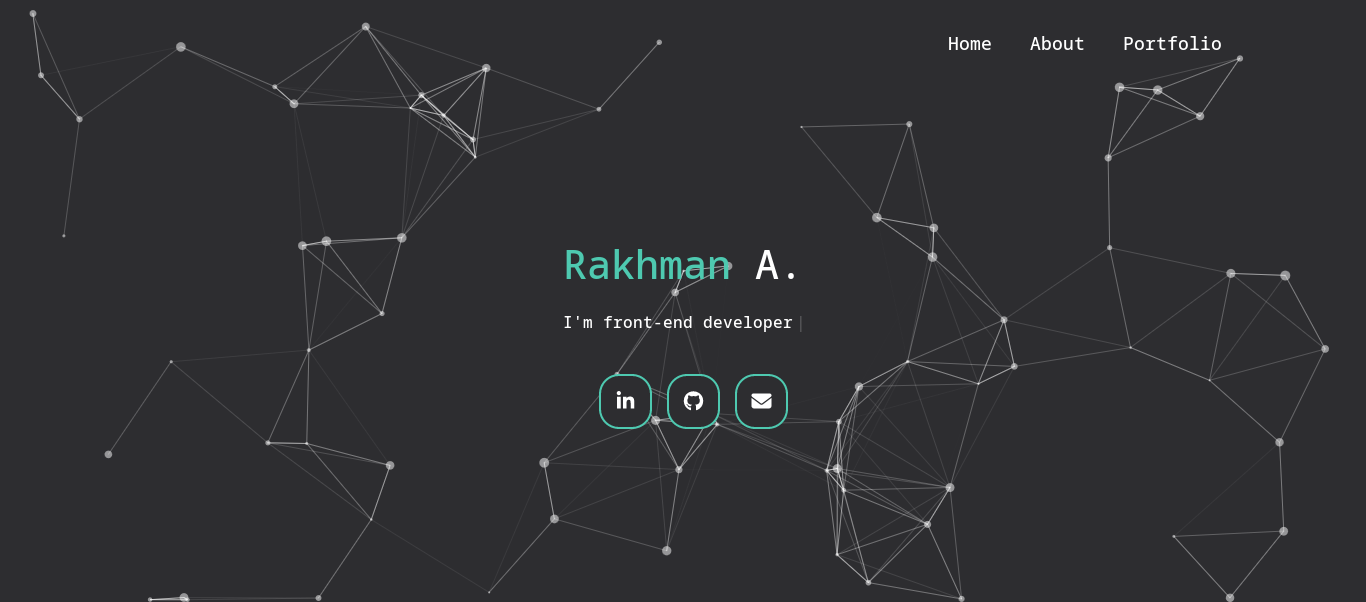
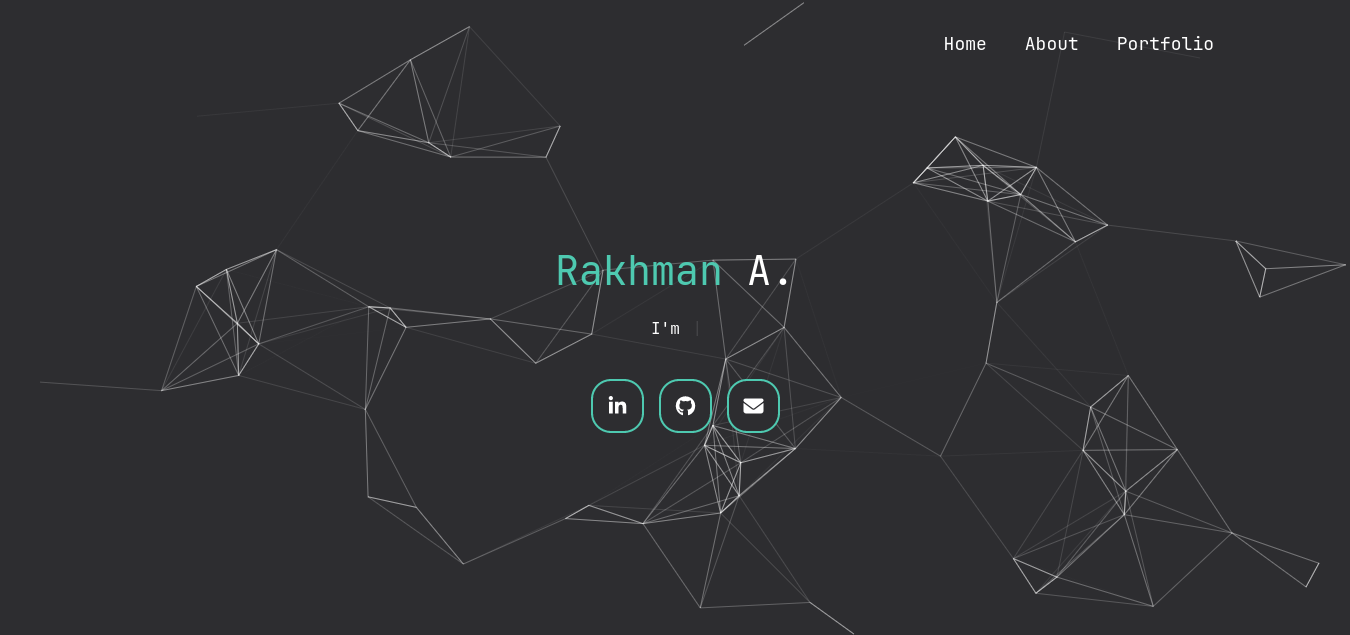
fix: tsparticles updated

diff --git a/src/layouts/Layout.tsx b/src/layouts/Layout.tsx
@@ -1,7 +1,7 @@
 import { ReactNode, useCallback } from "react";
-import { Particles } from "react-tsparticles";
-import { loadFull } from "tsparticles";
+import { Particles } from "react-particles";
 import type { Engine, ISourceOptions } from "tsparticles-engine";
+import { loadLinksPreset } from "tsparticles-preset-links";
 import { Header } from "../components/Header";
 
 type Properties = {
@@ -68,7 +68,7 @@ const options: ISourceOptions = {
             value: 0.5
         },
         shape: {
-            type: "circle"
+            type: "square"
         },
         size: {
             value: { max: 5, min: 1 }
@@ -78,7 +78,7 @@ const options: ISourceOptions = {
 
 export const Layout = ({ children }: Properties) => {
     const init = useCallback(async (engine: Engine) => {
-        await loadFull(engine);
+        await loadLinksPreset(engine);
     }, []);
 
     return (
